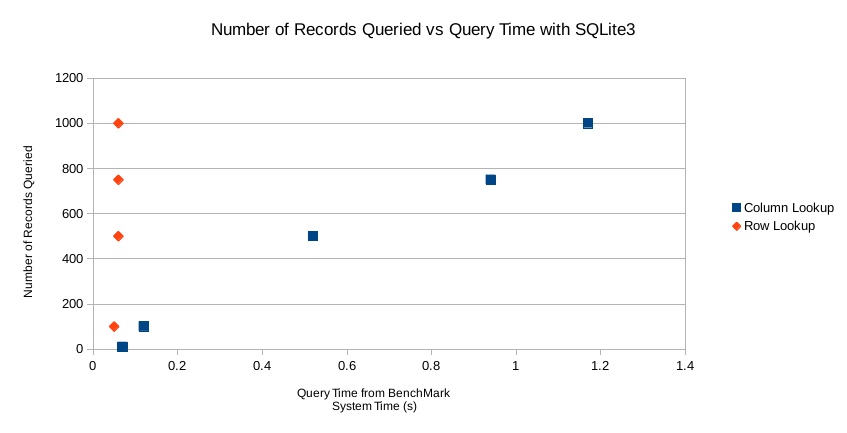
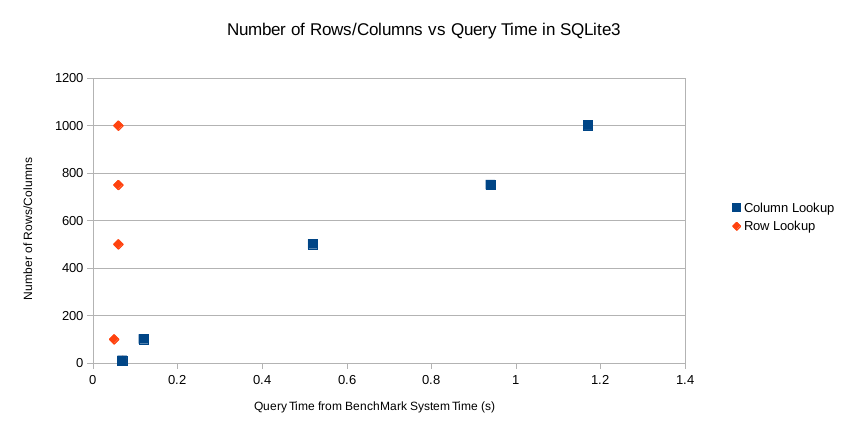
Site updated at 2014-10-31 01:46:25 UTC

diff --git a/index.html b/index.html
@@ -86,9 +86,9 @@
   </header>
 
 
-  <div class="entry-content"><p>The short answer is that it gets slow. I had heard this before but decided to confirm it with some code. I used SQLite for the database, ActiveRecord to ease the SQL work, and Ruby to automate table generation. Tables of sizes from 100 to 1000 columns and rows were created and populated, and then randomly queried 100 times per benchmark. The benchmarks were averaged and compiled to generate the summary chart.</p>
+  <div class="entry-content"><p>The short answer is that it gets slow. I had heard this before but decided to confirm it with some code. I used SQLite for the database, ActiveRecord to ease the SQL work, and Ruby to automate table generation. Tables of sizes from 100 to 1000 columns and rows were created and populated, and then randomly queried 100 times per benchmark. The benchmarks were averaged and compiled to generate the summary chart.  To keep things simple, I only tested a single column of 1000 records, or a single row with 1000 attributes (columns).</p>
 
-<p>The code for the helper methods are below:</p>
+<p>The code for the helper methods:</p>
 
 <figure class='code'><figcaption><span></span></figcaption><div class="highlight"><table><tr><td class="gutter"><pre class="line-numbers"><span class='line-number'>1</span>
 <span class='line-number'>2</span>
@@ -256,7 +256,7 @@
 </span><span class='line'><span class="c1"># create_migrations(num, &quot;houses&quot;)#houses</span>
 </span><span class='line'><span class="c1"># populate(num, &quot;house&quot;, &quot;horizontal&quot;)</span>
 </span><span class='line'>
-</span><span class='line'><span class="c1"># create_migrations(1, &quot;candies&quot;)</span>
+</span><span class='line'><span class="c1"># create_migrations(1, &quot;candies&quot;)w</span>
 </span><span class='line'><span class="c1"># populate(num, &quot;candy&quot;, &quot;vertical&quot;)</span>
 </span><span class='line'>
 </span><span class='line'><span class="c1"># puts &quot;Random lookups at #{num} columns&quot;</span>

diff --git a/blog/2014/10/30/what-happens-when-you-grow-a-database-with-columns/index.html b/blog/2014/10/30/what-happens-when-you-grow-a-database-with-columns/index.html
@@ -83,9 +83,9 @@
   </header>
 
 
-<div class="entry-content"><p>The short answer is that it gets slow. I had heard this before but decided to confirm it with some code. I used SQLite for the database, ActiveRecord to ease the SQL work, and Ruby to automate table generation. Tables of sizes from 100 to 1000 columns and rows were created and populated, and then randomly queried 100 times per benchmark. The benchmarks were averaged and compiled to generate the summary chart.</p>
+<div class="entry-content"><p>The short answer is that it gets slow. I had heard this before but decided to confirm it with some code. I used SQLite for the database, ActiveRecord to ease the SQL work, and Ruby to automate table generation. Tables of sizes from 100 to 1000 columns and rows were created and populated, and then randomly queried 100 times per benchmark. The benchmarks were averaged and compiled to generate the summary chart.  To keep things simple, I only tested a single column of 1000 records, or a single row with 1000 attributes (columns).</p>
 
-<p>The code for the helper methods are below:</p>
+<p>The code for the helper methods:</p>
 
 <figure class='code'><figcaption><span></span></figcaption><div class="highlight"><table><tr><td class="gutter"><pre class="line-numbers"><span class='line-number'>1</span>
 <span class='line-number'>2</span>
@@ -253,7 +253,7 @@
 </span><span class='line'><span class="c1"># create_migrations(num, &quot;houses&quot;)#houses</span>
 </span><span class='line'><span class="c1"># populate(num, &quot;house&quot;, &quot;horizontal&quot;)</span>
 </span><span class='line'>
-</span><span class='line'><span class="c1"># create_migrations(1, &quot;candies&quot;)</span>
+</span><span class='line'><span class="c1"># create_migrations(1, &quot;candies&quot;)w</span>
 </span><span class='line'><span class="c1"># populate(num, &quot;candy&quot;, &quot;vertical&quot;)</span>
 </span><span class='line'>
 </span><span class='line'><span class="c1"># puts &quot;Random lookups at #{num} columns&quot;</span>
